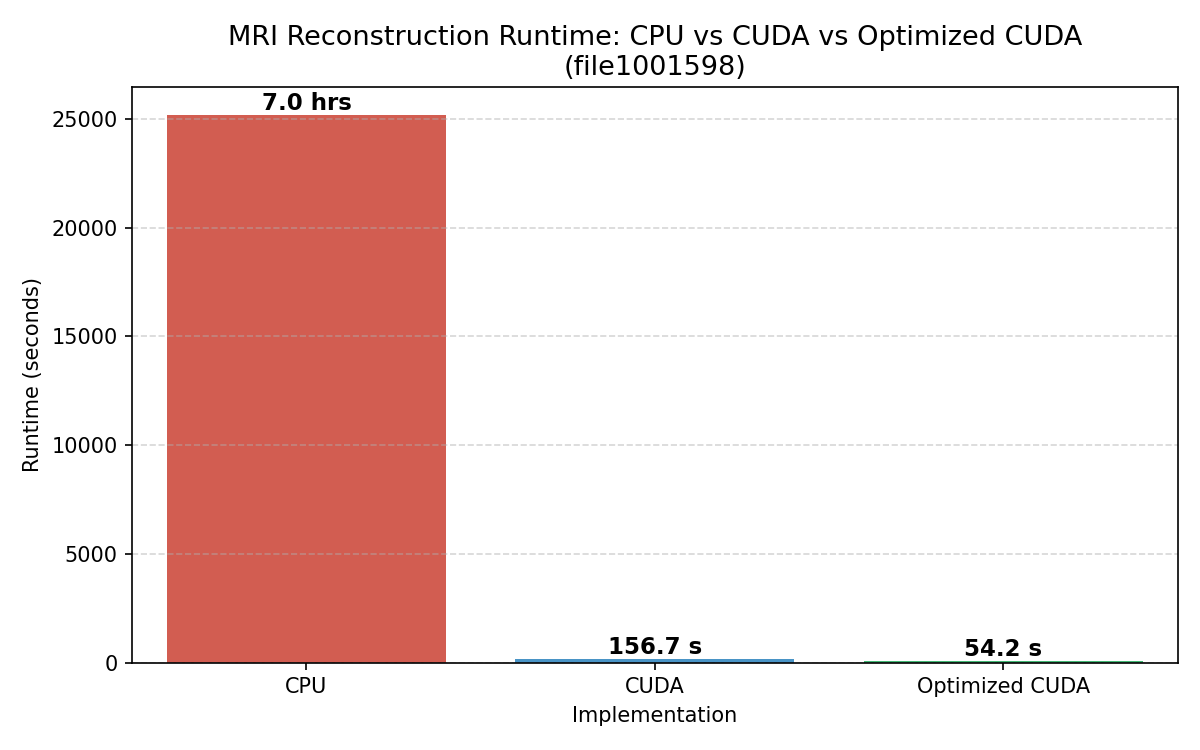
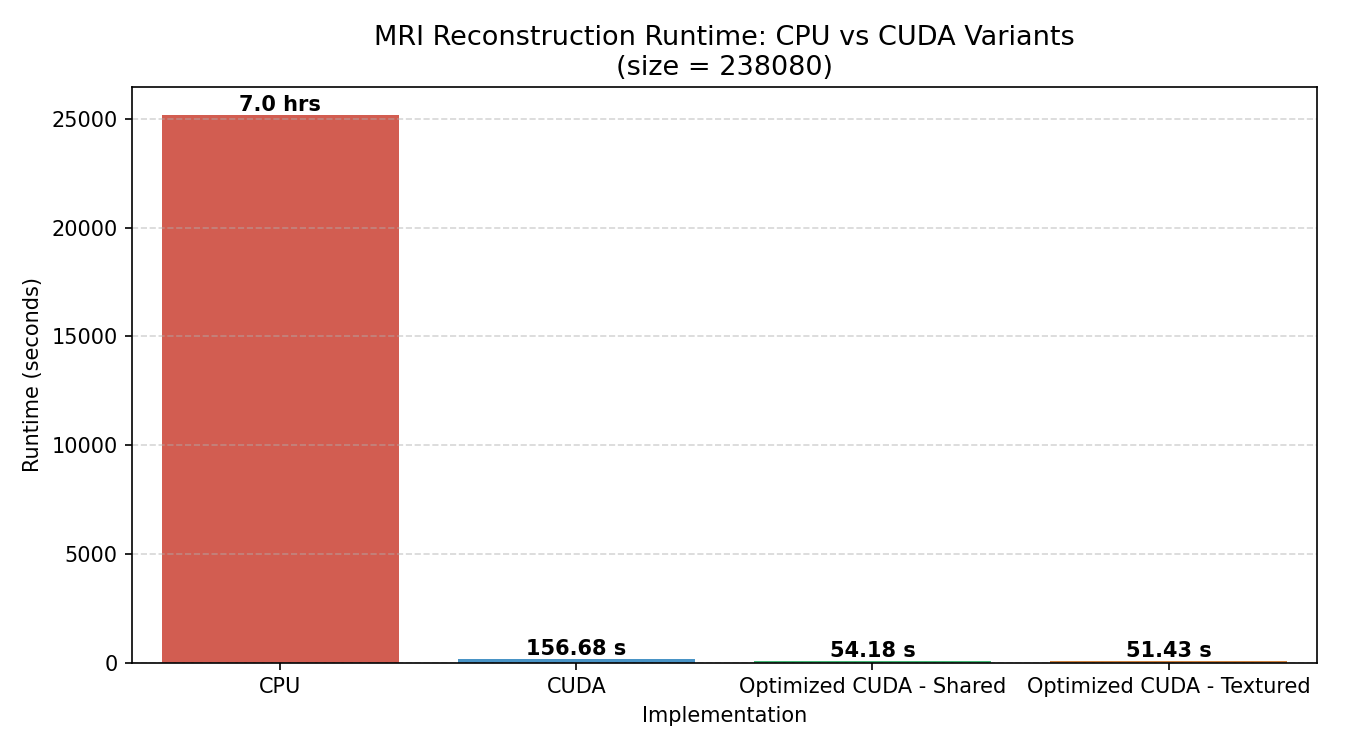
add more experiments and results

diff --git a/experiment/experiment.py b/experiment/experiment.py
@@ -1,31 +1,37 @@
+%cd /content/gdrive/MyDrive/CS677/mri-reconstruction
+
 import pandas as pd
 import matplotlib.pyplot as plt
 import seaborn as sns
+import numpy as np
 
 df = pd.read_csv('results/runtimes.csv')
 CPU_SINGLE_RUNTIME = 7 * 3600  # seconds
 
+VERSIONS     = ['CUDA', 'Optimized CUDA - Shared', 'Optimized CUDA - Textured']
+PALETTE_3    = ['#3498db', '#2ecc71', '#e67e22']   # blue, green, orange
+PALETTE_CPU  = ['#e74c3c'] + PALETTE_3             # red prepended for CPU bar
+
 df_single = df[df['File'] == 'file1001598'].copy()
 
-'''Graph 1 — CPU vs CUDA vs CUDA-opt (single sample bar chart)'''
+# ── Graph 1 ── CPU vs all three CUDA versions (single sample bar chart) ────────
 
 bar_data = pd.concat([
     pd.DataFrame([{'Version': 'CPU', 'Runtime (seconds)': CPU_SINGLE_RUNTIME}]),
     df_single[['Version', 'Runtime (seconds)']]
 ], ignore_index=True)
 
-fig, ax = plt.subplots(figsize=(8, 5))
+fig, ax = plt.subplots(figsize=(9, 5))
 sns.barplot(data=bar_data, x='Version', y='Runtime (seconds)',
-            palette=['#e74c3c', '#3498db', '#2ecc71'], ax=ax)
+            palette=PALETTE_CPU, ax=ax)
 
-# Annotate each bar with its value
 for p in ax.patches:
     val = p.get_height()
-    label = f'{val/3600:.1f} hrs' if val > 600 else f'{val:.1f} s'
+    label = f'{val/3600:.1f} hrs' if val > 600 else f'{val:.2f} s'
     ax.annotate(label, (p.get_x() + p.get_width() / 2, p.get_height()),
-                ha='center', va='bottom', fontsize=11, fontweight='bold')
+                ha='center', va='bottom', fontsize=10, fontweight='bold')
 
-ax.set_title('MRI Reconstruction Runtime: CPU vs CUDA vs Optimized CUDA\n(size = 238080)', fontsize=13)
+ax.set_title('MRI Reconstruction Runtime: CPU vs CUDA Variants\n(size = 238080)', fontsize=13)
 ax.set_xlabel('Implementation')
 ax.set_ylabel('Runtime (seconds)')
 ax.grid(axis='y', linestyle='--', alpha=0.5)
@@ -33,13 +39,14 @@ plt.tight_layout()
 plt.savefig('results/graph1_cpu_vs_gpu_bar.png', dpi=150)
 plt.show()
 
-'''Graph 2 — CUDA vs CUDA-opt across all sizes (runtime scaling)'''
+# ── Graph 2 ── Runtime vs k-space size (all 3 CUDA versions) ──────────────────
 
 fig, ax = plt.subplots(figsize=(9, 5))
 sns.lineplot(data=df, x='Size', y='Runtime (seconds)',
-             hue='Version', marker='o', palette=['#3498db', '#2ecc71'], ax=ax)
+             hue='Version', hue_order=VERSIONS,
+             marker='o', palette=PALETTE_3, ax=ax)
 
-ax.set_title('Runtime vs. K-space Size: CUDA vs Optimized CUDA', fontsize=13)
+ax.set_title('Runtime vs. K-space Size: CUDA Variants', fontsize=13)
 ax.set_xlabel('K-space Size (pixels)')
 ax.set_ylabel('Runtime (seconds)')
 ax.grid(linestyle='--', alpha=0.5)
@@ -47,17 +54,28 @@ plt.tight_layout()
 plt.savefig('results/graph2_runtime_vs_size.png', dpi=150)
 plt.show()
 
-'''Graph 3 — Speedup of CUDA-opt over CUDA vs size'''
+# ── Graph 3 ── Speedup of both optimized versions over baseline ────────────────
 
 pivot = df.pivot_table(index=['File', 'Size'], columns='Version',
                        values='Runtime (seconds)').reset_index()
-pivot['Speedup'] = pivot['CUDA'] / pivot['Optimized CUDA']
+
+pivot['Speedup - Shared']   = pivot['CUDA'] / pivot['Optimized CUDA - Shared']
+pivot['Speedup - Textured'] = pivot['CUDA'] / pivot['Optimized CUDA - Textured']
+
+speedup_long = pd.melt(
+    pivot, id_vars=['File', 'Size'],
+    value_vars=['Speedup - Shared', 'Speedup - Textured'],
+    var_name='Variant', value_name='Speedup'
+)
 
 fig, ax = plt.subplots(figsize=(9, 5))
-sns.lineplot(data=pivot, x='Size', y='Speedup', marker='o', color='#9b59b6', ax=ax)
+sns.lineplot(data=speedup_long, x='Size', y='Speedup',
+             hue='Variant', marker='o',
+             palette={'Speedup - Shared': '#2ecc71', 'Speedup - Textured': '#e67e22'},
+             ax=ax)
 ax.axhline(y=1.0, linestyle='--', color='gray', label='No improvement')
 
-ax.set_title('Speedup of Optimized CUDA over Baseline CUDA vs. K-space Size', fontsize=13)
+ax.set_title('Speedup over Baseline CUDA: Shared vs Textured Memory', fontsize=13)
 ax.set_xlabel('K-space Size (pixels)')
 ax.set_ylabel('Speedup (×)')
 ax.legend()
@@ -66,18 +84,70 @@ plt.tight_layout()
 plt.savefig('results/graph3_speedup_vs_size.png', dpi=150)
 plt.show()
 
-'''Graph 4 — Throughput vs size'''
+# ── Graph 4 ── Shared vs Textured direct ratio ────────────────────────────────
+# Values > 1 mean Shared is faster; < 1 mean Textured is faster
+
+pivot['Shared_over_Textured'] = pivot['Optimized CUDA - Textured'] / pivot['Optimized CUDA - Shared']
+
+fig, ax = plt.subplots(figsize=(9, 5))
+sns.lineplot(data=pivot, x='Size', y='Shared_over_Textured',
+             marker='o', color='#9b59b6', ax=ax)
+ax.axhline(y=1.0, linestyle='--', color='gray')
+ax.fill_between(pivot['Size'], pivot['Shared_over_Textured'], 1.0,
+                where=pivot['Shared_over_Textured'] >= 1.0,
+                alpha=0.15, color='#2ecc71', label='Shared faster')
+ax.fill_between(pivot['Size'], pivot['Shared_over_Textured'], 1.0,
+                where=pivot['Shared_over_Textured'] < 1.0,
+                alpha=0.15, color='#e67e22', label='Textured faster')
+
+ax.set_title('Relative Performance: Shared vs Textured Memory\n(>1 = Shared wins, <1 = Textured wins)', fontsize=13)
+ax.set_xlabel('K-space Size (pixels)')
+ax.set_ylabel('Speedup Ratio (Textured runtime / Shared runtime)')
+ax.legend()
+ax.grid(linestyle='--', alpha=0.5)
+plt.tight_layout()
+plt.savefig('results/graph4_shared_vs_textured_ratio.png', dpi=150)
+plt.show()
+
+# ── Graph 5 ── Throughput vs size (all 3 CUDA versions) ───────────────────────
 
 df['Throughput (pixels/sec)'] = df['Size'] / df['Runtime (seconds)']
 
 fig, ax = plt.subplots(figsize=(9, 5))
 sns.lineplot(data=df, x='Size', y='Throughput (pixels/sec)',
-             hue='Version', marker='o', palette=['#3498db', '#2ecc71'], ax=ax)
+             hue='Version', hue_order=VERSIONS,
+             marker='o', palette=PALETTE_3, ax=ax)
 
-ax.set_title('Throughput vs. K-space Size: CUDA vs Optimized CUDA', fontsize=13)
+ax.set_title('Throughput vs. K-space Size: CUDA Variants', fontsize=13)
 ax.set_xlabel('K-space Size (pixels)')
 ax.set_ylabel('Throughput (pixels/sec)')
 ax.grid(linestyle='--', alpha=0.5)
 plt.tight_layout()
-plt.savefig('results/graph4_throughput_vs_size.png', dpi=150)
+plt.savefig('results/graph5_throughput_vs_size.png', dpi=150)
 plt.show()
+
+# ── Graph 6 ── Throughput grouped bar at selected representative sizes ─────────
+
+all_sizes   = sorted(df['Size'].unique())
+n           = len(all_sizes)
+# pick ~4 evenly-spaced sizes: smallest, ~33%, ~66%, largest
+sel_indices = sorted({0, n//3, 2*n//3, n-1})
+sel_sizes   = [all_sizes[i] for i in sel_indices]
+
+df_sel = df[df['Size'].isin(sel_sizes)].copy()
+df_sel['Size'] = df_sel['Size'].astype(str)          # categorical for grouping
+
+fig, ax = plt.subplots(figsize=(10, 5))
+sns.barplot(data=df_sel, x='Size', y='Throughput (pixels/sec)',
+            hue='Version', hue_order=VERSIONS,
+            palette=PALETTE_3, ax=ax)
+
+ax.set_title('Throughput at Representative K-space Sizes: CUDA Variants', fontsize=13)
+ax.set_xlabel('K-space Size (pixels)')
+ax.set_ylabel('Throughput (pixels/sec)')
+ax.legend(title='Version')
+ax.grid(axis='y', linestyle='--', alpha=0.5)
+plt.tight_layout()
+plt.savefig('results/graph6_throughput_grouped_bar.png', dpi=150)
+plt.show()
+

diff --git a/src/cpu/nufft.c b/src/cpu/nufft.c
@@ -41,7 +41,7 @@ void nufft_forward(const Complex *img, int nx, int ny,
             }
         }
 
-        samples[s].real = norm * sum_r;
+        samples[s].real      = norm * sum_r;
         samples[s].imaginary = norm * sum_i;
     }
 }
@@ -76,7 +76,7 @@ void nufft_adjoint(const Complex *samples, int m,
                 sum_i += v.real * sgn_sin + v.imaginary * c;
             }
 
-            img[img_index(y, x, nx)].real = norm * sum_r;
+            img[img_index(y, x, nx)].real      = norm * sum_r;
             img[img_index(y, x, nx)].imaginary = norm * sum_i;
         }
     }
